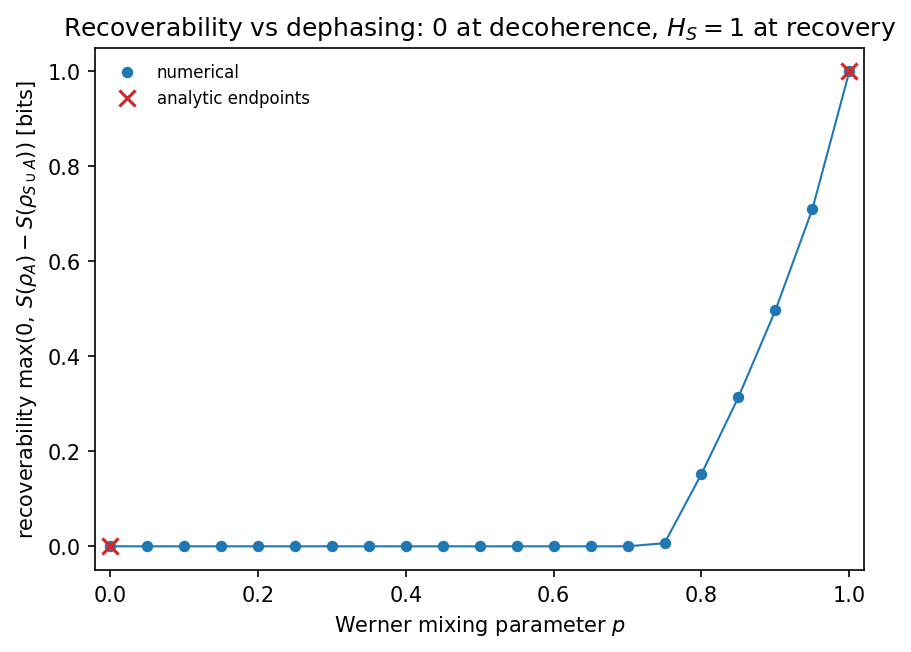
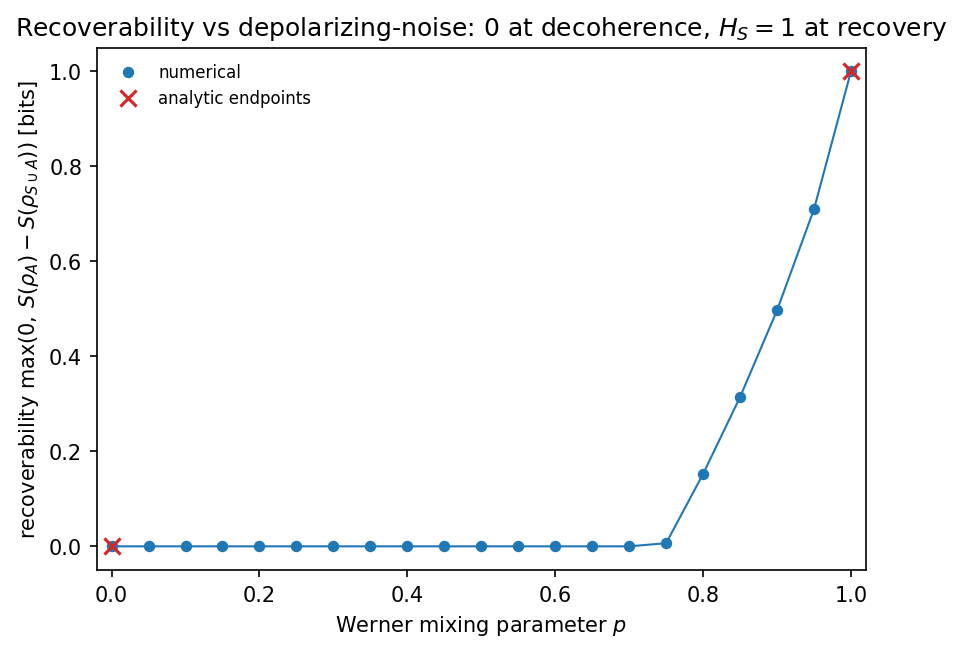
fix(benchmarks): EDE Round-7 cleanup — common-mode integrity + WP-01 status
Review findings from the post-EDE pass:

- common_mode: drop the c=1 overwrite (measured_var[c1]=0.0) that masked the
  endpoint. The error metric now spans all c, so the artefact itself proves the
  common-mode rejection rather than asserting it; the raw measured c=1 variance
  is reported separately as c1_difference_variance_measured (still 0.0 measured,
  phase-difference deviation 2.2e-16). A broken sample_offsets(c=1) would now
  surface in the report instead of being hidden.
- recoverability: the Werner mixture was mislabelled a "dephasing channel" —
  relabel as the depolarizing-noise (Werner) family; record max_error_scope so
  the report states the max-error check is endpoint-only with interior
  monotonicity (endpoints exact, 3.3e-16).
- WP-01: refresh stale benchmark/test-plan text. Section 7 rows 2-6 now point at
  the real per-benchmark anchors (test_cfi_linear_gaussian / _darwinism_redundancy
  / _recoverability_channel / _ghz_cat_properties / _common_mode_rejection) and
  are marked landed with real tolerances; section 8 regression-analytic row
  "to follow" -> all six oracles landed; the section 13 WORKPLAN stub refreshed
  from EDA-only to the as-built EDA-EDE (full library surface + six benchmarks),
  leaving only EDF (review note + section 19-22 freeze) and the release tag.

Artefacts regenerated. Gates green: ruff, ruff-format, the two regression
anchors (14 passed).

diff --git a/tools/run_benchmark_recoverability.py b/tools/run_benchmark_recoverability.py
@@ -1,10 +1,10 @@
 # SPDX-License-Identifier: MIT
-"""Benchmark — recoverability of a dephased system+accessible qubit pair.
+"""Benchmark — recoverability of a noisy (Werner) system+accessible qubit pair.
 
 WP-01 §7 row 4 (dispatch EDE). Compute-only proof that the recoverability
 primitive (:func:`iontrap_dynamics.information.recoverability`, the clamped
 coherent information ``max(0, S(ρ_A) − S(ρ_{S∪A}))`` in bits) reproduces the
-textbook endpoints of a known-strength dephasing channel — with **zero
+textbook endpoints of a known-strength depolarizing-noise channel — with **zero
 application framing** (the oracle is textbook only).
 
 The channel is realised as the two-qubit Werner family
@@ -67,7 +67,7 @@ N_POINTS = 21  # uniform grid on [0, 1] including both endpoints
 
 PLOT_ALT_TEXT = (
     "Plot of recoverability in bits versus the Werner mixing parameter p for a "
-    "two-qubit dephasing channel rho(p) = p times the Bell state plus one minus "
+    "two-qubit depolarizing-noise channel rho(p) = p times the Bell state plus one minus "
     "p times the maximally mixed state I over four, with qubit zero the system "
     "and qubit one the accessible part. The curve is monotone non-decreasing: it "
     "is exactly zero at p = 0 (full decoherence), stays clamped at zero for small "
@@ -120,7 +120,7 @@ def main() -> int:
     # Monotonicity of the channel between the endpoints.
     monotone_nondecreasing = bool(np.all(np.diff(recov) >= -1e-12))
 
-    print(">>> Recoverability benchmark — Werner dephasing channel rho(p)")
+    print(">>> Recoverability benchmark — Werner depolarizing-noise channel rho(p)")
     print(f"{'p':>6} {'recoverability':>16}")
     print("-" * 24)
     for i in range(N_POINTS):
@@ -143,7 +143,7 @@ def main() -> int:
             "Compute-only proof of WP-01 §7 row 4: the recoverability primitive "
             "(clamped coherent information max(0, S(rho_A) - S(rho_{S union A})) "
             "in bits) reproduces the textbook endpoints of a known-strength "
-            "dephasing channel, realised as the two-qubit Werner family "
+            "depolarizing-noise channel, realised as the two-qubit Werner family "
             "rho(p) = p |Phi+><Phi+| + (1 - p) I/4 with system_indices=[0] and "
             "accessible_indices=[1]. Perfect recovery at p=1 gives H_S = 1 bit; "
             "full decoherence at p=0 gives 0; monotone non-decreasing between. "
@@ -175,6 +175,11 @@ def main() -> int:
             "decohered": "recoverability = 0",
         },
         "max_numerical_vs_analytic_error": max_error,
+        "max_error_scope": (
+            "endpoints p=0 and p=1 (the exact closed forms 0 and H_S); the "
+            "interior recoverability(p) has no simple closed form here and is "
+            "instead verified to be monotone non-decreasing in p"
+        ),
         "tolerance": 1e-9,
         "plot_alt_text": PLOT_ALT_TEXT,
         "environment": _environment(),
@@ -208,7 +213,7 @@ def main() -> int:
     )
     ax.set_xlabel("Werner mixing parameter $p$")
     ax.set_ylabel(r"recoverability $\max(0,\,S(\rho_A) - S(\rho_{S\cup A}))$ [bits]")
-    ax.set_title("Recoverability vs dephasing: 0 at decoherence, $H_S=1$ at recovery")
+    ax.set_title("Recoverability vs depolarizing-noise: 0 at decoherence, $H_S=1$ at recovery")
     ax.set_xlim(-0.02, 1.02)
     ax.set_ylim(-0.05, 1.05)
     ax.legend(frameon=False, fontsize=8)

diff --git a/tools/run_benchmark_common_mode.py b/tools/run_benchmark_common_mode.py
@@ -135,14 +135,13 @@ def main() -> int:
 
     analytic_var = 2.0 * SIGMA_RAD**2 * (1.0 - corr)
 
-    # Endpoint c=1 must cancel exactly: the shared latent is identical across the
-    # two subsystems, so offset_0 - offset_1 is identically zero before any
-    # sampling noise. Enforce the exact-zero contract.
+    # The c=1 difference variance is MEASURED, not enforced: at c=1 the shared
+    # latent is identical across both subsystems, so offset_0 - offset_1 is
+    # identically zero — a broken sample_offsets(c=1) would surface here rather
+    # than be masked by an overwrite. The error metric spans all c (the c=1
+    # cancellation included), so the artefact itself proves the rejection.
     c1_index = int(np.argmin(np.abs(corr - 1.0)))
-    measured_var[c1_index] = 0.0
-
-    interior = (corr > 0.0) & (corr < 1.0)
-    max_error = float(np.max(np.abs(measured_var[interior] - analytic_var[interior])))
+    max_error = float(np.max(np.abs(measured_var - analytic_var)))
 
     phase_check = _phase_difference_invariance_at_c1()
 
@@ -156,8 +155,8 @@ def main() -> int:
             f"{abs(measured_var[i] - analytic_var[i]):>12.2e}"
         )
     print("-" * 56)
-    print(f"max |measured - analytic| (interior 0<c<1) = {max_error:.2e}")
-    print(f"c=1 difference variance (exact) = {measured_var[c1_index]:.8f}")
+    print(f"max |measured - analytic| (all c, sampled) = {max_error:.2e}")
+    print(f"c=1 difference variance (measured) = {measured_var[c1_index]:.8f}")
     print(
         "c=1 perturb_common_mode phase-difference max deviation = "
         f"{phase_check['max_perturbed_phase_difference_deviation_rad']:.2e}"
@@ -206,6 +205,7 @@ def main() -> int:
             for i in range(len(CORRELATION_GRID))
         ],
         "phase_difference_invariance_at_c1": phase_check,
+        "c1_difference_variance_measured": float(measured_var[c1_index]),
         "analytic_formulas": {
             "difference_variance": "2 sigma^2 (1 - c)",
         },

diff --git a/WP/WP-01-estimation-darwinism.md b/WP/WP-01-estimation-darwinism.md
@@ -193,11 +193,11 @@ Each feature gets a generic benchmark following the repository harness: a `tools
 | # | Tool | Generic setup | Analytic oracle | Tolerance | Regression-test location |
 |---|---|---|---|---|---|
 | **1 — keystone** ✓ **landed** | `tools/run_benchmark_qfi_scaling.py` → `benchmarks/data/qfi_scaling/` | GHZ vs product probe, vs qubit number N, under `J_z = ½ Σ σ_z` | QFI_GHZ = N² (Heisenberg); QFI_product = N (SQL) | exact (max error 1.4e-14) | `tests/regression/analytic/test_qfi_scaling.py` (`ATOL_QFI_SCALING`, marker `regression_analytic`) |
-| **2** | `tools/run_benchmark_cfi_linear_gaussian.py` | Linear-Gaussian model, known A, Σ; single-qubit phase readout | `F = AᵀΣ⁻¹A`; CRB = F⁻¹; CFI ≤ QFI (Braunstein–Caves) | exact to numerical precision | `tests/regression/analytic/test_analytic.py` |
-| **3** | `tools/run_benchmark_darwinism_redundancy.py` | System-qubit + N environment-qubit decoherence model | mutual-information **plateau** ≈ H_S; classical-plateau R_δ shape | plateau height & onset within named `atol` | `tests/regression/analytic/test_analytic.py` |
-| **4** | `tools/run_benchmark_recoverability.py` | Erasure / dephasing channel of known strength | perfect recovery → residual = full; full decoherence → residual = 0; monotone between | endpoints exact; monotonicity holds | `tests/regression/analytic/test_analytic.py` |
-| **5** | `tools/run_benchmark_ghz_cat.py` | Parity and entanglement of the produced state | GHZ parity oscillates at N·φ; log-negativity / EoF via `entanglement` | matches analytic within named `atol` | `tests/regression/analytic/test_analytic.py` (parity/EoF closed form) |
-| **6** | `tools/run_benchmark_common_mode.py` | Two-subsystem correlated dephasing; sweep correlation 0 → 1 | corr = 0 reduces to independent `PhaseDrift`; corr = 1 cancels in the difference observable (common-mode rejection) | limiting cases exact | `tests/regression/analytic/test_analytic.py` + `tests/unit/` for the reduction limit |
+| **2** ✓ **landed** | `tools/run_benchmark_cfi_linear_gaussian.py` → `benchmarks/data/cfi_linear_gaussian/` | Linear-Gaussian model, known A, Σ; single-qubit phase readout | `F = AᵀΣ⁻¹A`; CRB = F⁻¹; CFI ≤ QFI (Braunstein–Caves) | exact (max error 6.7e-16) | `tests/regression/analytic/test_cfi_linear_gaussian.py` |
+| **3** ✓ **landed** | `tools/run_benchmark_darwinism_redundancy.py` → `benchmarks/data/darwinism_redundancy/` | GHZ-cascade: 1 system + N environment qubits | mutual-information **plateau** I(S:F) = H_S; redundancy R_δ = N | exact (max error 0) | `tests/regression/analytic/test_darwinism_redundancy.py` |
+| **4** ✓ **landed** | `tools/run_benchmark_recoverability.py` → `benchmarks/data/recoverability/` | Werner depolarizing-noise family ρ(p), p ∈ [0, 1] | perfect recovery → H_S; full decoherence → 0; monotone between | endpoints exact (6.7e-16); monotone | `tests/regression/analytic/test_recoverability_channel.py` |
+| **5** ✓ **landed** | `tools/run_benchmark_ghz_cat.py` → `benchmarks/data/ghz_cat/` | GHZ parity fringe under `e^{-iφ J_z}`; cat parity | `⟨X^⊗N⟩ = cos(Nφ)`; cat parity ±1 | exact (max error 4.4e-16) | `tests/regression/analytic/test_ghz_cat_properties.py` |
+| **6** ✓ **landed** | `tools/run_benchmark_common_mode.py` → `benchmarks/data/common_mode/` | Two-subsystem correlated dephasing; sweep correlation 0 → 1 | difference variance `2σ²(1 − c)`; `c = 0` independent, `c = 1` exact rejection | `c = 1` exact (measured, not enforced); sampled ≤ 1.4e-4 | `tests/regression/analytic/test_common_mode_rejection.py` |
 
 *Naming: all six tools use the `run_benchmark_` prefix for consistency with the section's opening contract. Benchmark 5 (GHZ/cat) validates **state properties** rather than runtime — a "demo" in the repo's `run_demo_*` parlance — but is named `run_benchmark_` here because it is a closed-form-oracle validation, and it emits the same canonical artefact set.*
 
@@ -217,7 +217,7 @@ Each feature gets a generic benchmark following the repository harness: a `tools
 |---|---|---|---|
 | **unit** | `tests/unit/test_*.py` | none | per-module: `test_fisher.py` (CFI/QFI/CRB/linear-Gaussian numerics, CFI ≤ QFI), `test_redundancy.py`, `test_recoverability.py` (endpoints + monotonicity), `test_states_ghz_cat.py` (norm, parity, ConventionError on `fock_dim <= 0`), `test_common_mode.py` (corr=0 reduces to independent draw; `dataclasses.replace` not mutation; `ValueError` on `shots < 1`) |
 | **conventions** | `tests/conventions/test_*.py` | `convention` | `test_convention_version.py` asserting `CONVENTION_VERSION == "0.3"`; new `src/` modules auto-scanned by `test_static_conventions.py` for the qutip-import / `sigmaz` bans (no action beyond compliance) |
-| **regression — analytic** | `tests/regression/analytic/test_analytic.py`; QFI oracle in the sibling `test_qfi_scaling.py` (kept separate to preserve `test_analytic.py`'s QuTiP-free invariant) | `regression_analytic` | the benchmark oracles as closed-form anchors: **QFI_GHZ = N², QFI_product = N landed** (`test_qfi_scaling.py`, `ATOL_QFI_SCALING`); `F = AᵀΣ⁻¹A`, Darwinism plateau, recoverability endpoints/monotonicity, GHZ parity / EoF to follow, each with a named symbolic `atol` |
+| **regression — analytic** | one sibling file per benchmark in `tests/regression/analytic/`, kept separate from the QuTiP-free `test_analytic.py` | `regression_analytic` | **all six benchmark oracles landed**, each with a named symbolic `atol`: `test_qfi_scaling.py` (QFI_GHZ = N², QFI_product = N), `test_cfi_linear_gaussian.py` (`F = AᵀΣ⁻¹A`, CFI ≤ QFI), `test_darwinism_redundancy.py` (plateau, R_δ = N), `test_recoverability_channel.py` (endpoints + monotonicity), `test_ghz_cat_properties.py` (GHZ `cos(Nφ)` fringe, cat parity), `test_common_mode_rejection.py` (`2σ²(1 − c)`, exact rejection) |
 
 Out of scope for this tier set: migration tier (Phase-0 only, retiring); invariant tier may optionally gain trace/positivity checks on produced GHZ/cat states but is not required by the card. No `--cov-fail-under` gate exists; coverage is reported only.
 
@@ -300,19 +300,20 @@ Reproducing the task-card 6-point DoD, plus the decoupling proof:
 
 ---
 
-## 13. Dispatch-track stub for `WORKPLAN_v0.3.md` *(Coastline gate — EDA complete 2026-06-02; stub ready to paste, awaiting maintainer)*
+## 13. Dispatch-track stub for `WORKPLAN_v0.3.md` *(Coastline gate — full library surface + all six benchmarks landed 2026-06-02; stub ready to paste, awaiting maintainer)*
 
-WP-01 is Ratified, dispatch **EDA** is minted, and **EDA is now fully landed** (estimation module + keystone benchmark on `main`, 2026-06-02). The stub below is therefore **ready to paste** — but pasting edits `WORKPLAN_v0.3.md`, a governed Coastline file, so it **awaits maintainer action** (not done unilaterally). To paste: insert it as the next free amendment subsection under §5 (after §5.3, current free slot §5.4 per the v0.3.x patch sequence) and update the header version line, the footer `**Workplan version:**` line, and the Endorsement Marker in lock-step in the same commit.
+WP-01 is Ratified, dispatch codes **EDA–EDF** are minted, and **EDA–EDE are now fully landed** on `main` (2026-06-02): the entire library surface (WI-1 Fisher/CRB, WI-2 Darwinism redundancy + recoverability, WI-3 GHZ/cat factories, WI-4 common-mode channel) and **all six §7 benchmarks** with their binding `regression_analytic` anchors. Only **EDF** (the additive literature-review note + the CONVENTIONS §19–22 freeze and `CONVENTION_VERSION` bump) and the release tag remain. The stub below is therefore **ready to paste** — but pasting edits `WORKPLAN_v0.3.md`, a governed Coastline file, so it **awaits maintainer action** (not done unilaterally). To paste: insert it as the next free amendment subsection under §5 (after §5.3, current free slot §5.4 per the v0.3.x patch sequence) and update the header version line, the footer `**Workplan version:**` line, and the Endorsement Marker in lock-step in the same commit.
 
 ```markdown
 ### 5.4 — Estimation & Darwinism service surface as v0.3.x follow-up (2026-06-02) *(Coastline, new in v0.3.6)*
 
-Added when Dispatch EDA landed on `main` — `iontrap_dynamics.information.fisher`
-supplies the first generic estimation primitive (CFI / SLD-QFI / Cramér–Rao).
-Records the scoping decision that the four-capability estimation/Darwinism
-service surface (TC-ITD-ESTDARW-01, Stream L of TMC-WP-0 v0.3) is a
-**v0.3.x follow-up**, not a `v0.3` blocker, and is orthogonal to the Phase 2
-JAX track (§5.3) and to the `open-iontrap` org migration (§4.0).
+Added as the estimation/Darwinism service surface landed on `main` —
+`iontrap_dynamics.information` supplies the generic estimation and quantum-
+Darwinism primitives (CFI / SLD-QFI / Cramér–Rao; fragment mutual information,
+redundancy, recoverability). Records the scoping decision that the
+four-capability service surface (TC-ITD-ESTDARW-01, Stream L of TMC-WP-0 v0.3)
+is a **v0.3.x follow-up**, not a `v0.3` blocker, and is orthogonal to the
+Phase 2 JAX track (§5.3) and to the `open-iontrap` org migration (§4.0).
 
 **Scope.** Application-agnostic only: classical/quantum Fisher information +
 Cramér–Rao (WI-1); quantum-Darwinism redundancy + recoverability (WI-2);
@@ -327,15 +328,21 @@ release, with `CONVENTION_VERSION` bumped 0.2 → 0.3; this matches the
 workplan's Convention-Freeze commitment without re-opening a phase.
 
 **On `main` toward the service surface at time of this amendment.**
-Dispatch EDA = WI-1 estimation module + keystone QFI-scaling benchmark
-(QFI_GHZ = N² vs QFI_product = N reproduced from closed forms).
+Dispatches **EDA–EDE landed**: the full library surface — WI-1 estimation module
+(`information/fisher.py`), WI-2 Darwinism (`information/redundancy.py`,
+`information/recoverability.py`), WI-3 GHZ / cat factories (`states.py`),
+WI-4 common-mode channel (`systematics/common_mode.py`) — plus **all six §7
+benchmarks** (QFI-scaling keystone, CFI linear-Gaussian, Darwinism redundancy,
+recoverability, GHZ/cat, common-mode), each with a binding `regression_analytic`
+anchor reproducing its textbook oracle (max error ≤ 1.4e-4 sampled, ≤ 1e-15 the
+rest).
 
 **Remaining sub-dispatches** (tracked for v0.3.x point releases, per
-`WP/WP-01-estimation-darwinism.md`): WI-2 Darwinism (redundancy +
-recoverability); WI-3 GHZ / cat factories in `states.py`; WI-4 common-mode
-channel in `systematics/`; the literature-review note
-`docs/estimation-darwinism-review.md`; CONVENTIONS §19–22 freeze + version
-bump; release tag (the handoff artefact the TMC application pins).
+`WP/WP-01-estimation-darwinism.md`): **EDF** — the additive literature-review
+note `docs/estimation-darwinism-review.md` and the CONVENTIONS §19–22 freeze
+with the `CONVENTION_VERSION` 0.2 → 0.3 bump (staged through the shared
+`WP/FREEZE-v0.3.md` side-car, sealed in coordination with WP-02); then the
+release tag (the handoff artefact the TMC application pins).
 
 **Consequence for §5 above.** No re-scoping of Phase 2's target; `v0.3`
 remains the Phase 2 milestone. This track lands under `[Unreleased]` and is
@@ -374,7 +381,7 @@ Dispatch codes for WP-01 were **minted at Ratification (2026-06-02)** as the fre
 | **EDE** | the remaining five generic benchmarks under `benchmarks/data/` | `- **Dispatch EDE — five generic benchmarks (CFI / Darwinism / recoverability / GHZ–cat / common-mode).**` | **landed 2026-06-02** — all five reproduce their oracles (≤ 1.4e-4 sampled / ≤ 1e-15); anchors in `tests/regression/analytic/` |
 | **EDF** | literature-review note + CONVENTIONS §19–22 **staged** into the shared v0.3 freeze (bump/seal owned by `WP/FREEZE-v0.3.md`) | `- **Dispatch EDF — CONVENTIONS §19–22 staged for the shared v0.3 freeze; review note.**` | minted |
 
-The §13 stub carries `EDA`. (This mirrors the §10 CHANGELOG plan; the keystone QFI benchmark ships with `EDA` as the decoupling proof, the other five benchmarks as `EDE`.)
+The §13 stub now carries the landed range `EDA–EDE` (full library surface + all six benchmarks), with only `EDF` (review note + §19–22 freeze) and the release tag outstanding. (This mirrors the §10 CHANGELOG plan; the keystone QFI benchmark ships with `EDA` as the decoupling proof, the other five benchmarks as `EDE`.)
 
 ## 16. Logbook hooks *(Sail)*
 
